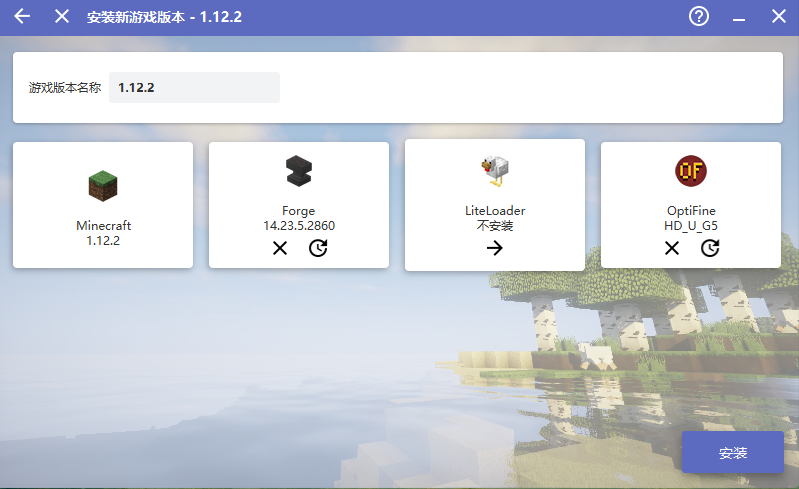
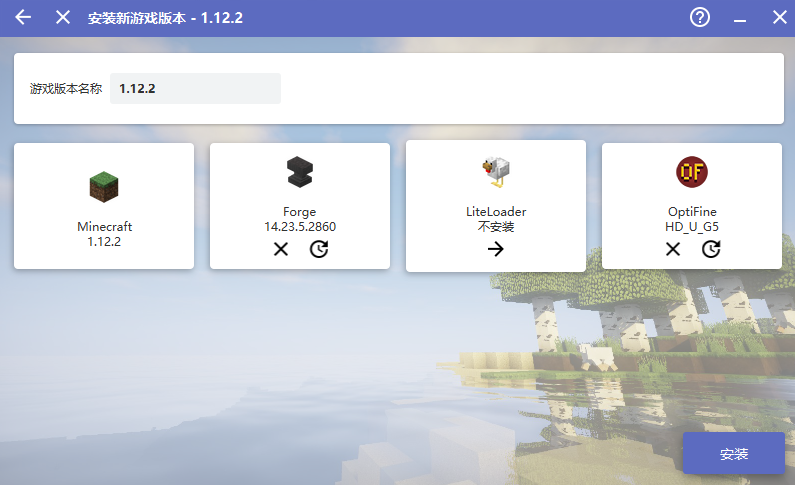
add pic to introduce more clearly

diff --git a/docs/guide/install.md b/docs/guide/install.md
@@ -19,7 +19,7 @@
 
 安装完毕后，打开 **HMCL-3.5.9**<br>下载游戏版本你自己挑选
 
-> **如果你想和35号大神联机游玩的话，请你下载带有以下条件的版本<br>( 联机需要版本以及其他条件完全一致 )**
+> **如果你想和 `35号大神` 联机游玩的话，请你下载带有以下条件的版本<br>( 联机需要版本以及其他条件完全一致 )**
 >
 > - **Minecraft <u>1.12.2</u>**
 >
@@ -27,6 +27,6 @@
 >
 > - **Optifine <u>HD U G5</u>**
 
-<img src="https://cdn.jsdelivr.net/gh/live-block/live-block.github.io@main/docs/img/version.png">
+![version](https://cdn.jsdelivr.net/gh/live-block/live-block.github.io@main/docs/img/version.png)
 
 安装完成后，账户列表选择 **离线模式** ，输入你想要的名字 ( 建议 **英文字母** 或 **数字** ，否则无法联机 )<br>然后你就可以 **启动游戏** 了

diff --git a/docs/guide/introduction.md b/docs/guide/introduction.md
@@ -12,15 +12,11 @@
 
 > **MineCraft 是一款沙盒类游戏，在这个游戏中你可以随心所欲创造任何事物<br>因此，游戏开放性极大，社区的开发者们制作了一系列模组来丰富游戏的玩法<br>以及光影来提高视觉体验**
 
----
-
 ![img0](https://cdn.jsdelivr.net/gh/live-block/live-block.github.io@main/docs/img/img_p0.png)
 
 ---
 
 ![img1](https://cdn.jsdelivr.net/gh/live-block/live-block.github.io@main/docs/img/img_p1.png)
-
----
 
 若你对此有兴趣，并想 `游玩` 或与同学 `联机` ，请接着往后看
 

diff --git a/docs/guide/multiplayer.md b/docs/guide/multiplayer.md
@@ -8,4 +8,8 @@
 
 当你下载了上文 `我所提供的准确版本` 并启动游戏后<br>你只需打开 **多人游戏** 选项<br>游戏会自动查找开放的服务器
 
+![multiplayer](https://cdn.jsdelivr.net/gh/live-block/live-block.github.io@main/docs/img/multiplayer.png)
+
 一般列表中都会查找到有游戏 ( ~~因为本人是一上机就开玩的~~ )<br>查找到游戏后，直接 **进入** 就可以 **游玩** 了
+
+#### 注: 游戏使用<u>WSAD</u>操控行走，<u>F11</u>可以全屏，<u>E</u>打开背包，<u>ESC</u>可以打开设置
